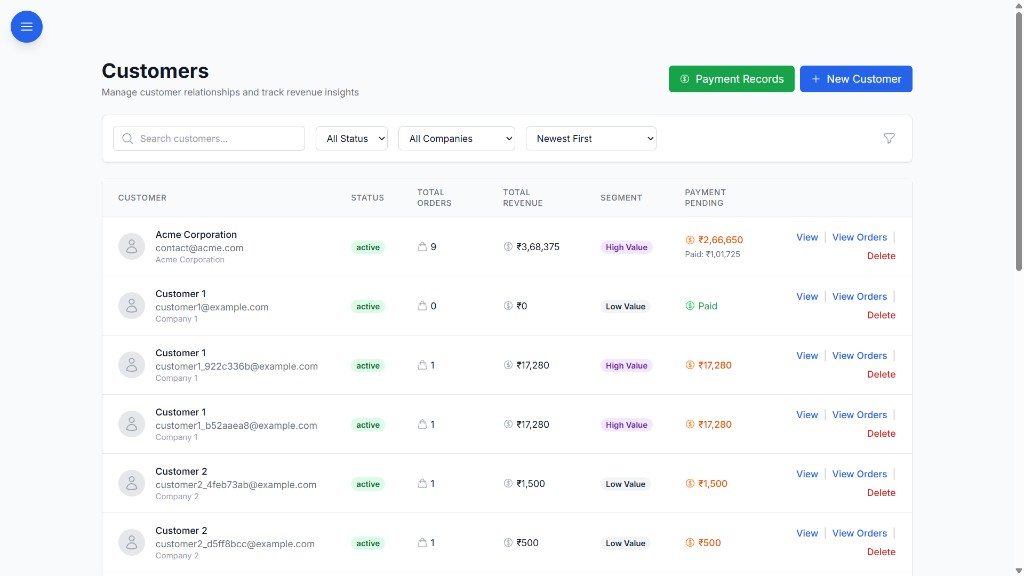
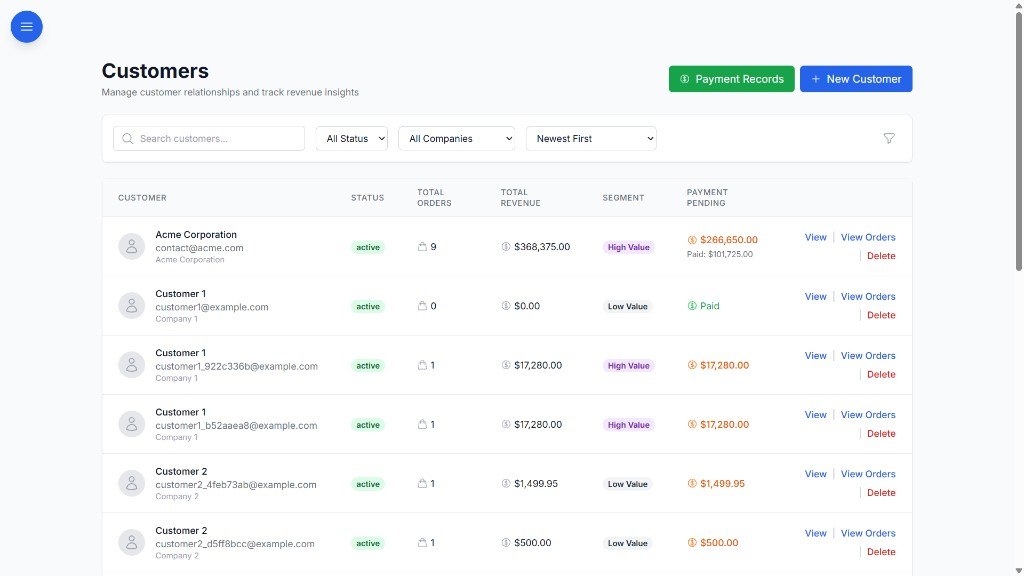
Use customers screenshot in Deployment migration section.
Replace the tasks dashboard image with the customers view in the migration from spreadsheets section.

diff --git a/deployment/index.html b/deployment/index.html
@@ -123,7 +123,7 @@
             </ul>
           </div>
           <div class="module-media shot">
-            <img src="/boom-screens/tasks.png" alt="BOOM task and workflow management after deployment" loading="lazy">
+            <img src="/boom-screens/customers.png" alt="BOOM customers module with revenue tracking, segments, and payment status" loading="lazy">
           </div>
         </div>
       </div>
